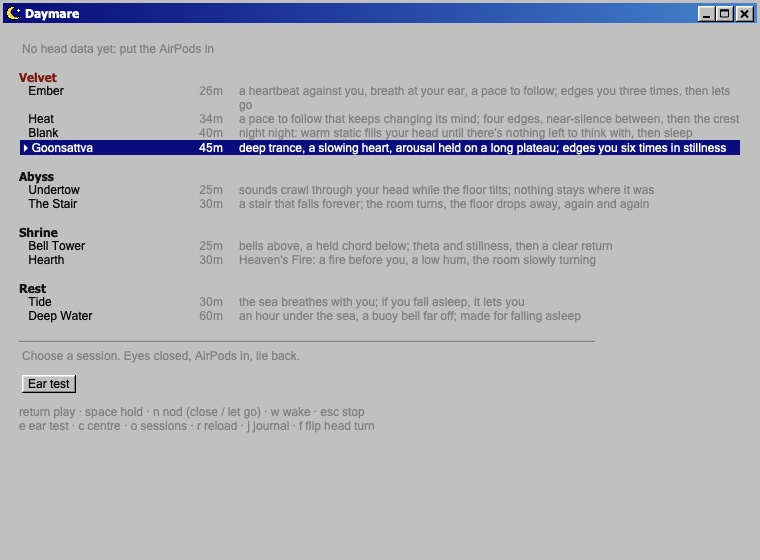
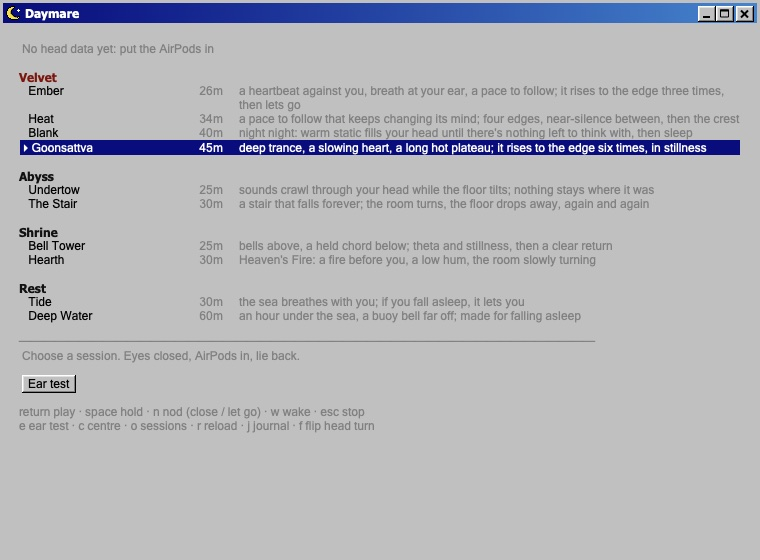
Velvet: trances to put on during sex or solo play

Changed region(s): [[0.5145, 0.2429, 0.9684, 0.2732], [0.7263, 0.1518, 0.9684, 0.1821], [0.3026, 0.1821, 0.3934, 0.2125]]

diff --git a/Sources/main.swift b/Sources/main.swift
@@ -166,7 +166,7 @@ func writeKnobReference() {
     }
     t += "\nWhile playing: if your head stirs, the session waits (time runs slower) until you settle.\n"
     t += "A deliberate nod (down-up-down) holds the depth where it is; nod again to go on.\n"
-    t += "In an edging session the nod means instead: building, \"I'm close\" (it rushes you to the edge);\n"
+    t += "In a velvet trance (one with an edge: line) the nod means instead: building, \"I'm close\" (it rushes you to the edge);\n"
     t += "at the edge, \"let me go\" (release). Moving speeds the build instead of slowing it.\n"
     t += "A shake wakes you. On the stem: one press wakes, two presses are the nod.\n"
     try? t.write(to: Paths.sessions.appendingPathComponent("KNOBS.txt"), atomically: true, encoding: .utf8)
@@ -194,6 +194,7 @@ if args.count > 2, args[1] == "--looks" {
     let dir = URL(fileURLWithPath: args[2])
     try? FileManager.default.createDirectory(at: dir, withIntermediateDirectories: true)
     TitleBarView.alwaysActive = true
+    Library.folderOverride = Bundle.main.resourceURL?.appendingPathComponent("Sessions")   // never your own sessions
     func save(_ v: NSView, _ name: String) {
         v.layoutSubtreeIfNeeded(); RunLoop.main.run(until: Date().addingTimeInterval(0.3)); v.displayIfNeeded()
         guard let rep = v.bitmapImageRepForCachingDisplay(in: v.bounds) else { return }

diff --git a/Sources/HowItWorks.swift b/Sources/HowItWorks.swift
@@ -23,7 +23,8 @@ enum HowItWorks {
         para("the sound-world stays put when you turn, and the session waits while you stir. without them it still works.")
         para("if both test tones play in both ears, turn Spatial Audio off for Daymare in Control Center › Sound.")
         head("the rooms")
-        para("velvet: erotic sessions for adults. they build, hold you at the edge, pull back, and build again.")
+        para("velvet: trances for adults, to put on while you watch, read, touch yourself or have sex. the sound")
+        para("builds, holds at the edge, pulls back into near-silence and builds again, and it follows your lead.")
         para("abyss: illusions: a stair that falls forever, a floor that tilts, sounds crawling through your head.")
         para("shrine: bells, fire and a turning room, for trance and a clear return.")
         para("rest: the sea, made for falling asleep. if you go still, it lets you.")

diff --git a/Sources/LookPicker.swift b/Sources/LookPicker.swift
@@ -87,7 +87,7 @@ final class LookPicker: NSWindowController, NSWindowDelegate {
         use.target = self
         use.action = #selector(confirmAction)
 
-        let credit = NSTextField(wrappingLabelWithString: "Daymare is for adults: its velvet sessions are erotic, made of sound alone. Use headphones at a gentle volume, lying down, never while driving.")
+        let credit = NSTextField(wrappingLabelWithString: "Daymare is for adults: its velvet trances are made to play during sex or solo play. Use headphones at a gentle volume, never while driving.")
         credit.font = .systemFont(ofSize: 11)
         credit.textColor = NSColor(white: 0.5, alpha: 1)
         adult.attributedTitle = NSAttributedString(string: "I'm 18 or older", attributes: [.font: NSFont.systemFont(ofSize: 13, weight: .medium),

diff --git a/Sources/Session.swift b/Sources/Session.swift
@@ -398,7 +398,10 @@ enum Library {
         d.set(installed, forKey: "installedSessions")
     }
 
-    static func load(from dir: URL = Paths.sessions) -> (sessions: [Session], errors: [String]) {
+    /// Screenshots read the bundled sessions only, never the user's own folder.
+    nonisolated(unsafe) static var folderOverride: URL?
+
+    static func load(from dir: URL = folderOverride ?? Paths.sessions) -> (sessions: [Session], errors: [String]) {
         let fm = FileManager.default
         let files = ((try? fm.contentsOfDirectory(at: dir, includingPropertiesForKeys: nil)) ?? [])
             .filter { $0.pathExtension == "txt" && $0.lastPathComponent != "KNOBS.txt" }   // the reference card isn't a session

diff --git a/README.md b/README.md
@@ -2,7 +2,7 @@
 
 **Trance made only of sound, for the Mac and AirPods.** For adults.
 
-Daymare plays sessions built entirely from live-synthesized sound: no voice, no pictures, nothing recorded. Its heart is the **velvet** room: erotic sessions that build, hold you at the edge, pull back into near-silence, and build again, until they let you go. Around it are rooms for trance, illusion and sleep.
+Daymare plays trances built entirely from live-synthesized sound: no voice, no pictures, nothing recorded. Its heart is the **velvet** room: trances to put on while you watch, read, touch yourself or have sex. The sound builds, holds at the edge, pulls back into near-silence and builds again, and you lead it: a nod says you're close, another says let go. Around it are rooms for trance, illusion and sleep.
 
 With AirPods that track your head, the sound-world stays put when you turn, a session waits while you stir, and you answer it without opening your eyes: a nod, a shake, a press of the stem.
 
@@ -10,7 +10,7 @@ With AirPods that track your head, the sound-world stays put when you turn, a se
 
 ## The rooms
 
-- **velvet** (18+): edging sessions. *Ember* edges you three times, *Heat* keeps changing its mind, *Goonsattva* holds you on a long, slow plateau six times, and *Blank* fills your head with warm static until you sleep.
+- **velvet** (18+): trances for sex and solo play. *Ember* is a heartbeat and a breath at your ear that rise to the edge three times, *Heat* keeps changing its mind, *Goonsattva* is deep and slow with a long hot plateau, and *Blank* fills your head with warm static until you sleep.
 - **abyss:** auditory illusions: a stair that falls forever, a floor that tilts, sounds crawling through your head.
 - **shrine:** bells, fire and a slowly turning room, for trance and a clear return.
 - **rest:** the sea, made for falling asleep. If you go still, it lets you.
